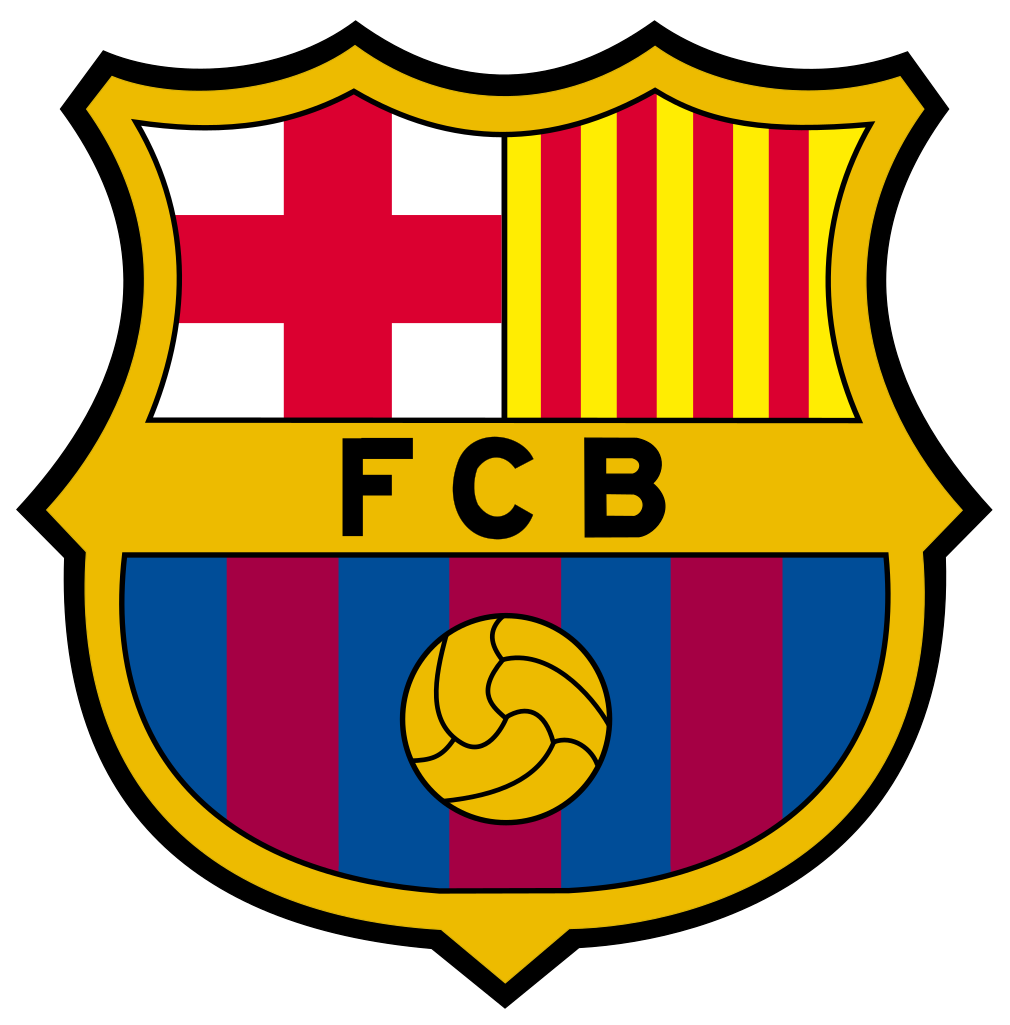
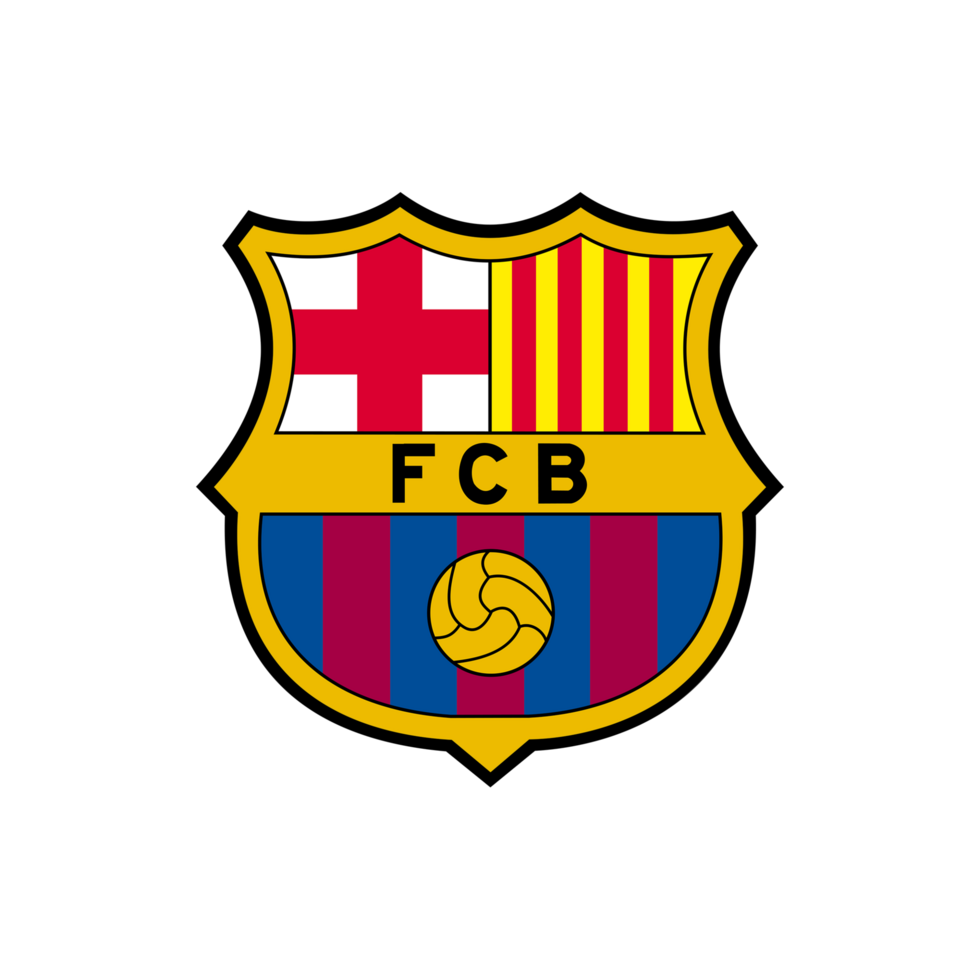
Update project

diff --git a/index.html b/index.html
@@ -8,7 +8,8 @@
   <header>
     <h1>Welcome to FC Barcelona</h1>
     <h2>Més que un club ❤💙</h2>
-    <img src="barca.jpg" width="150" alt="Barcelona Logo">
+    <img src="barca.jpg" alt="FCB Logo" width="300">
+
   </header>
 
   <nav>
